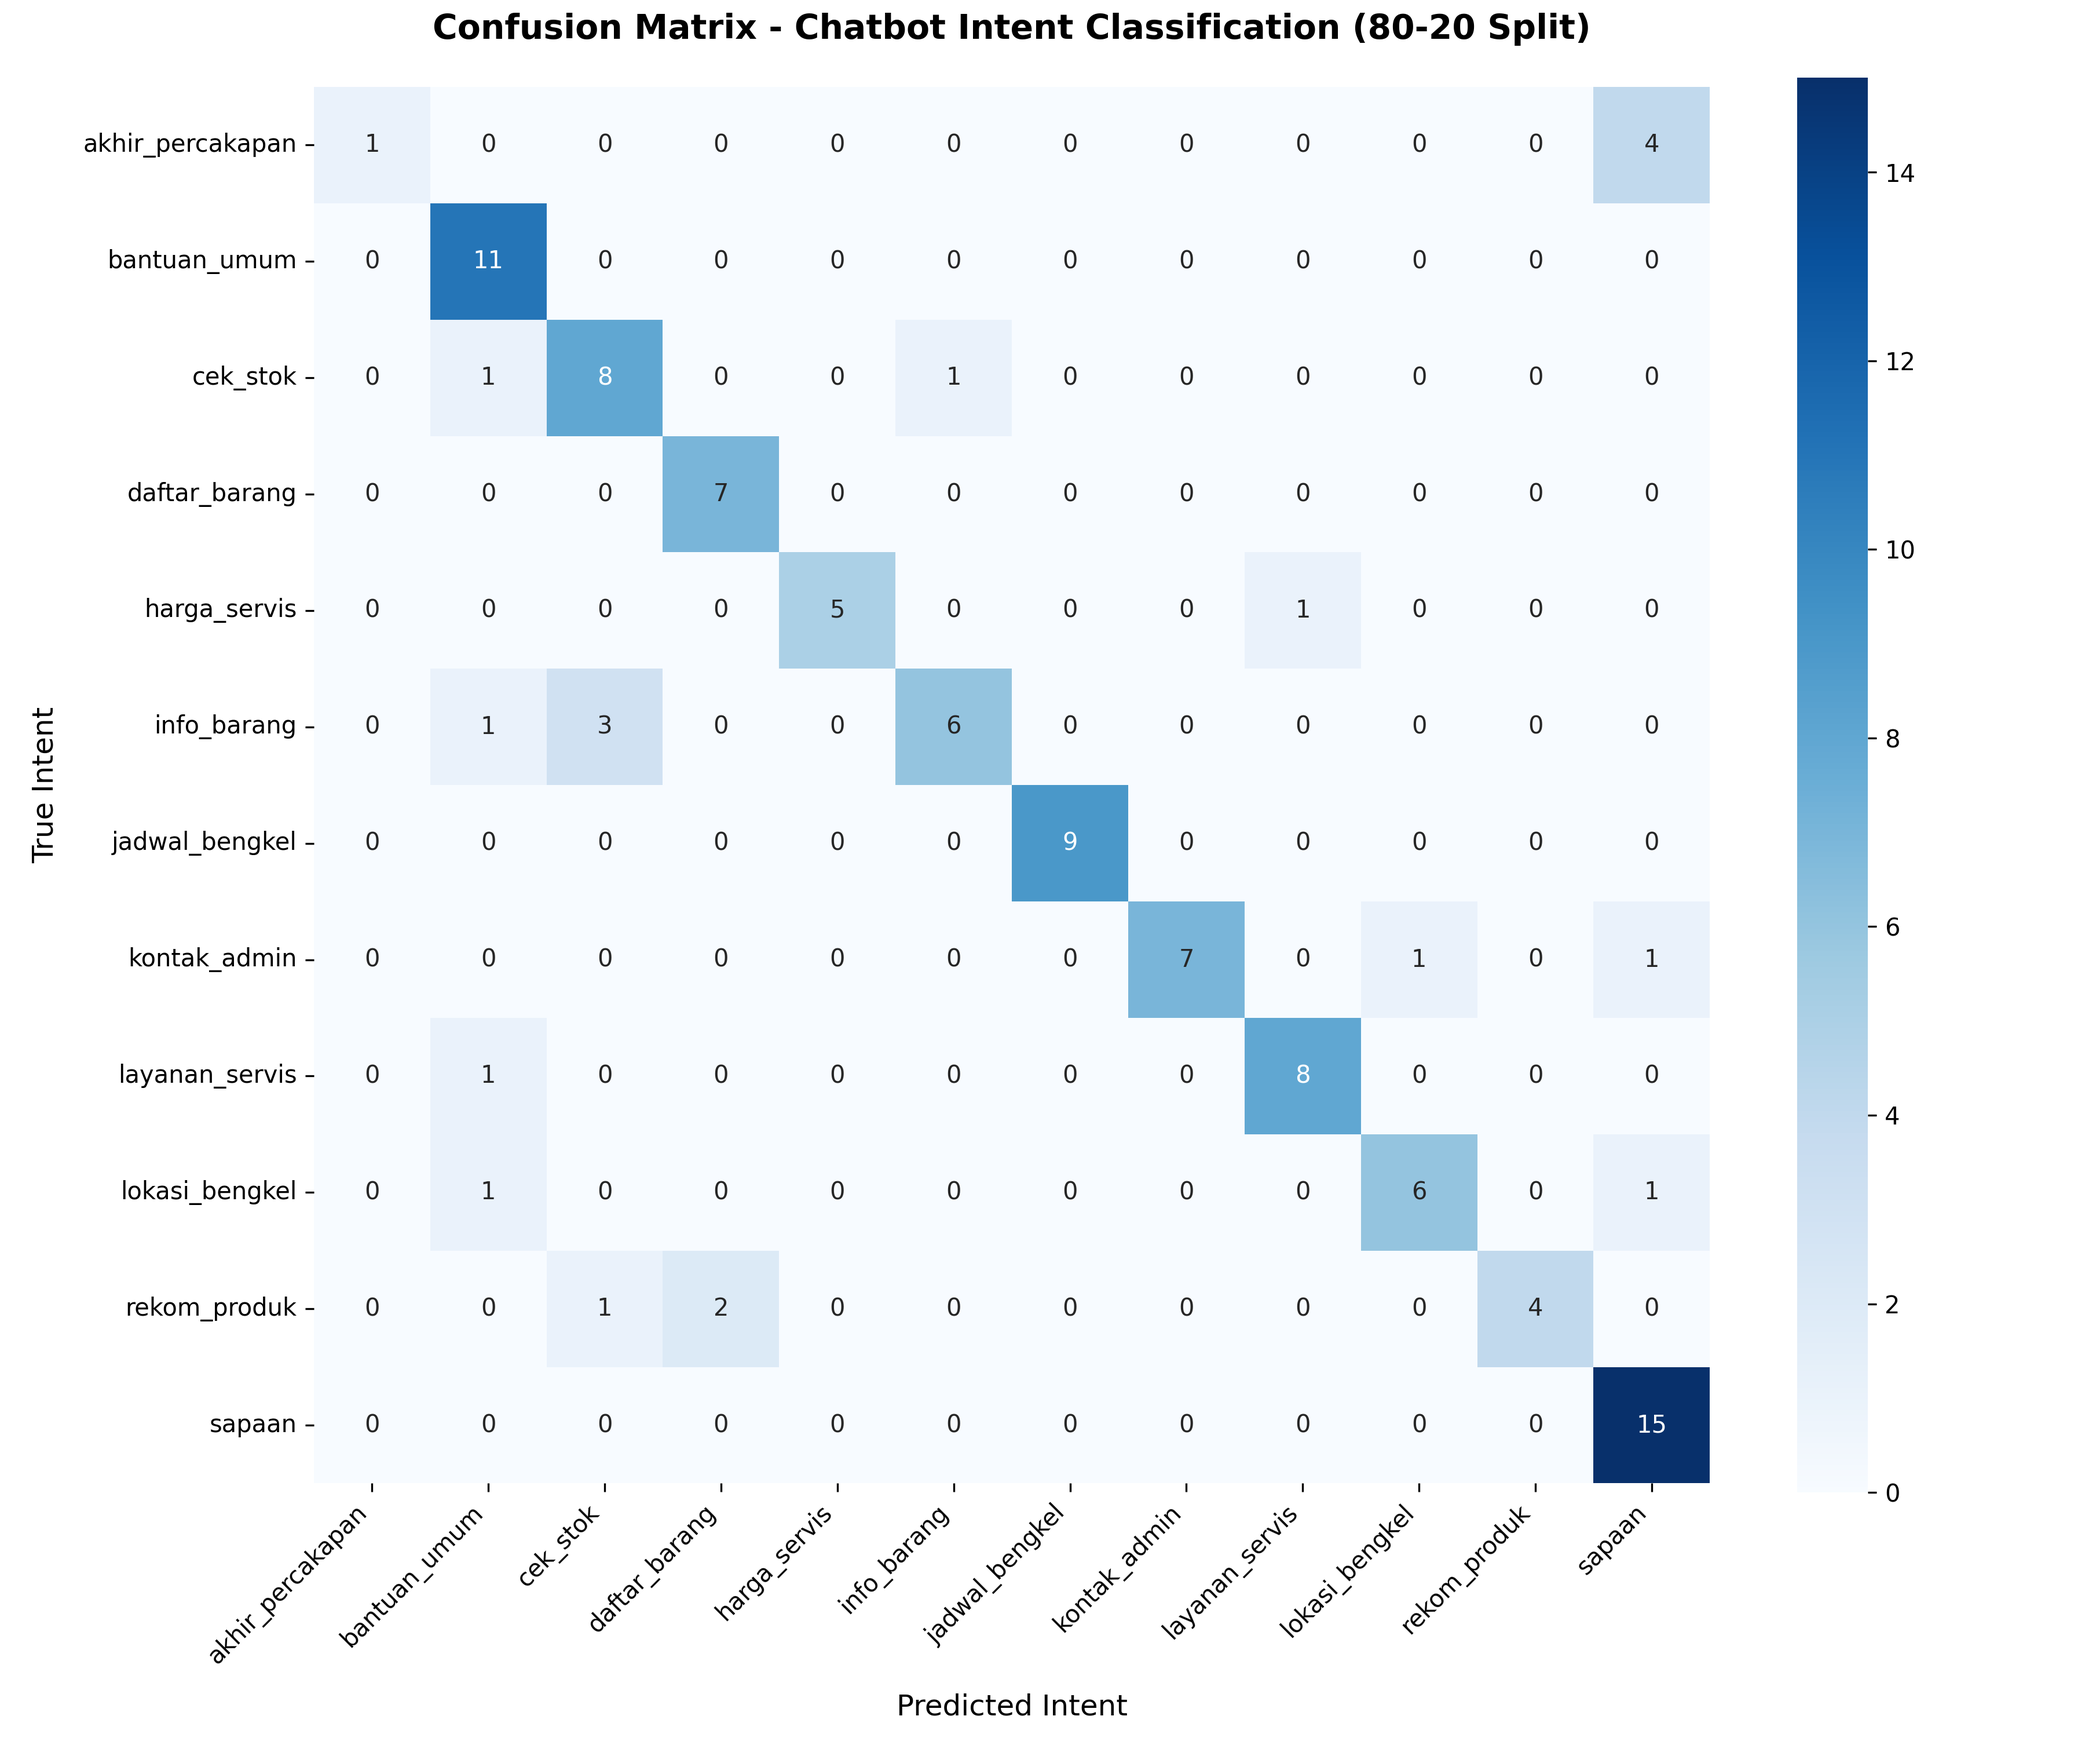
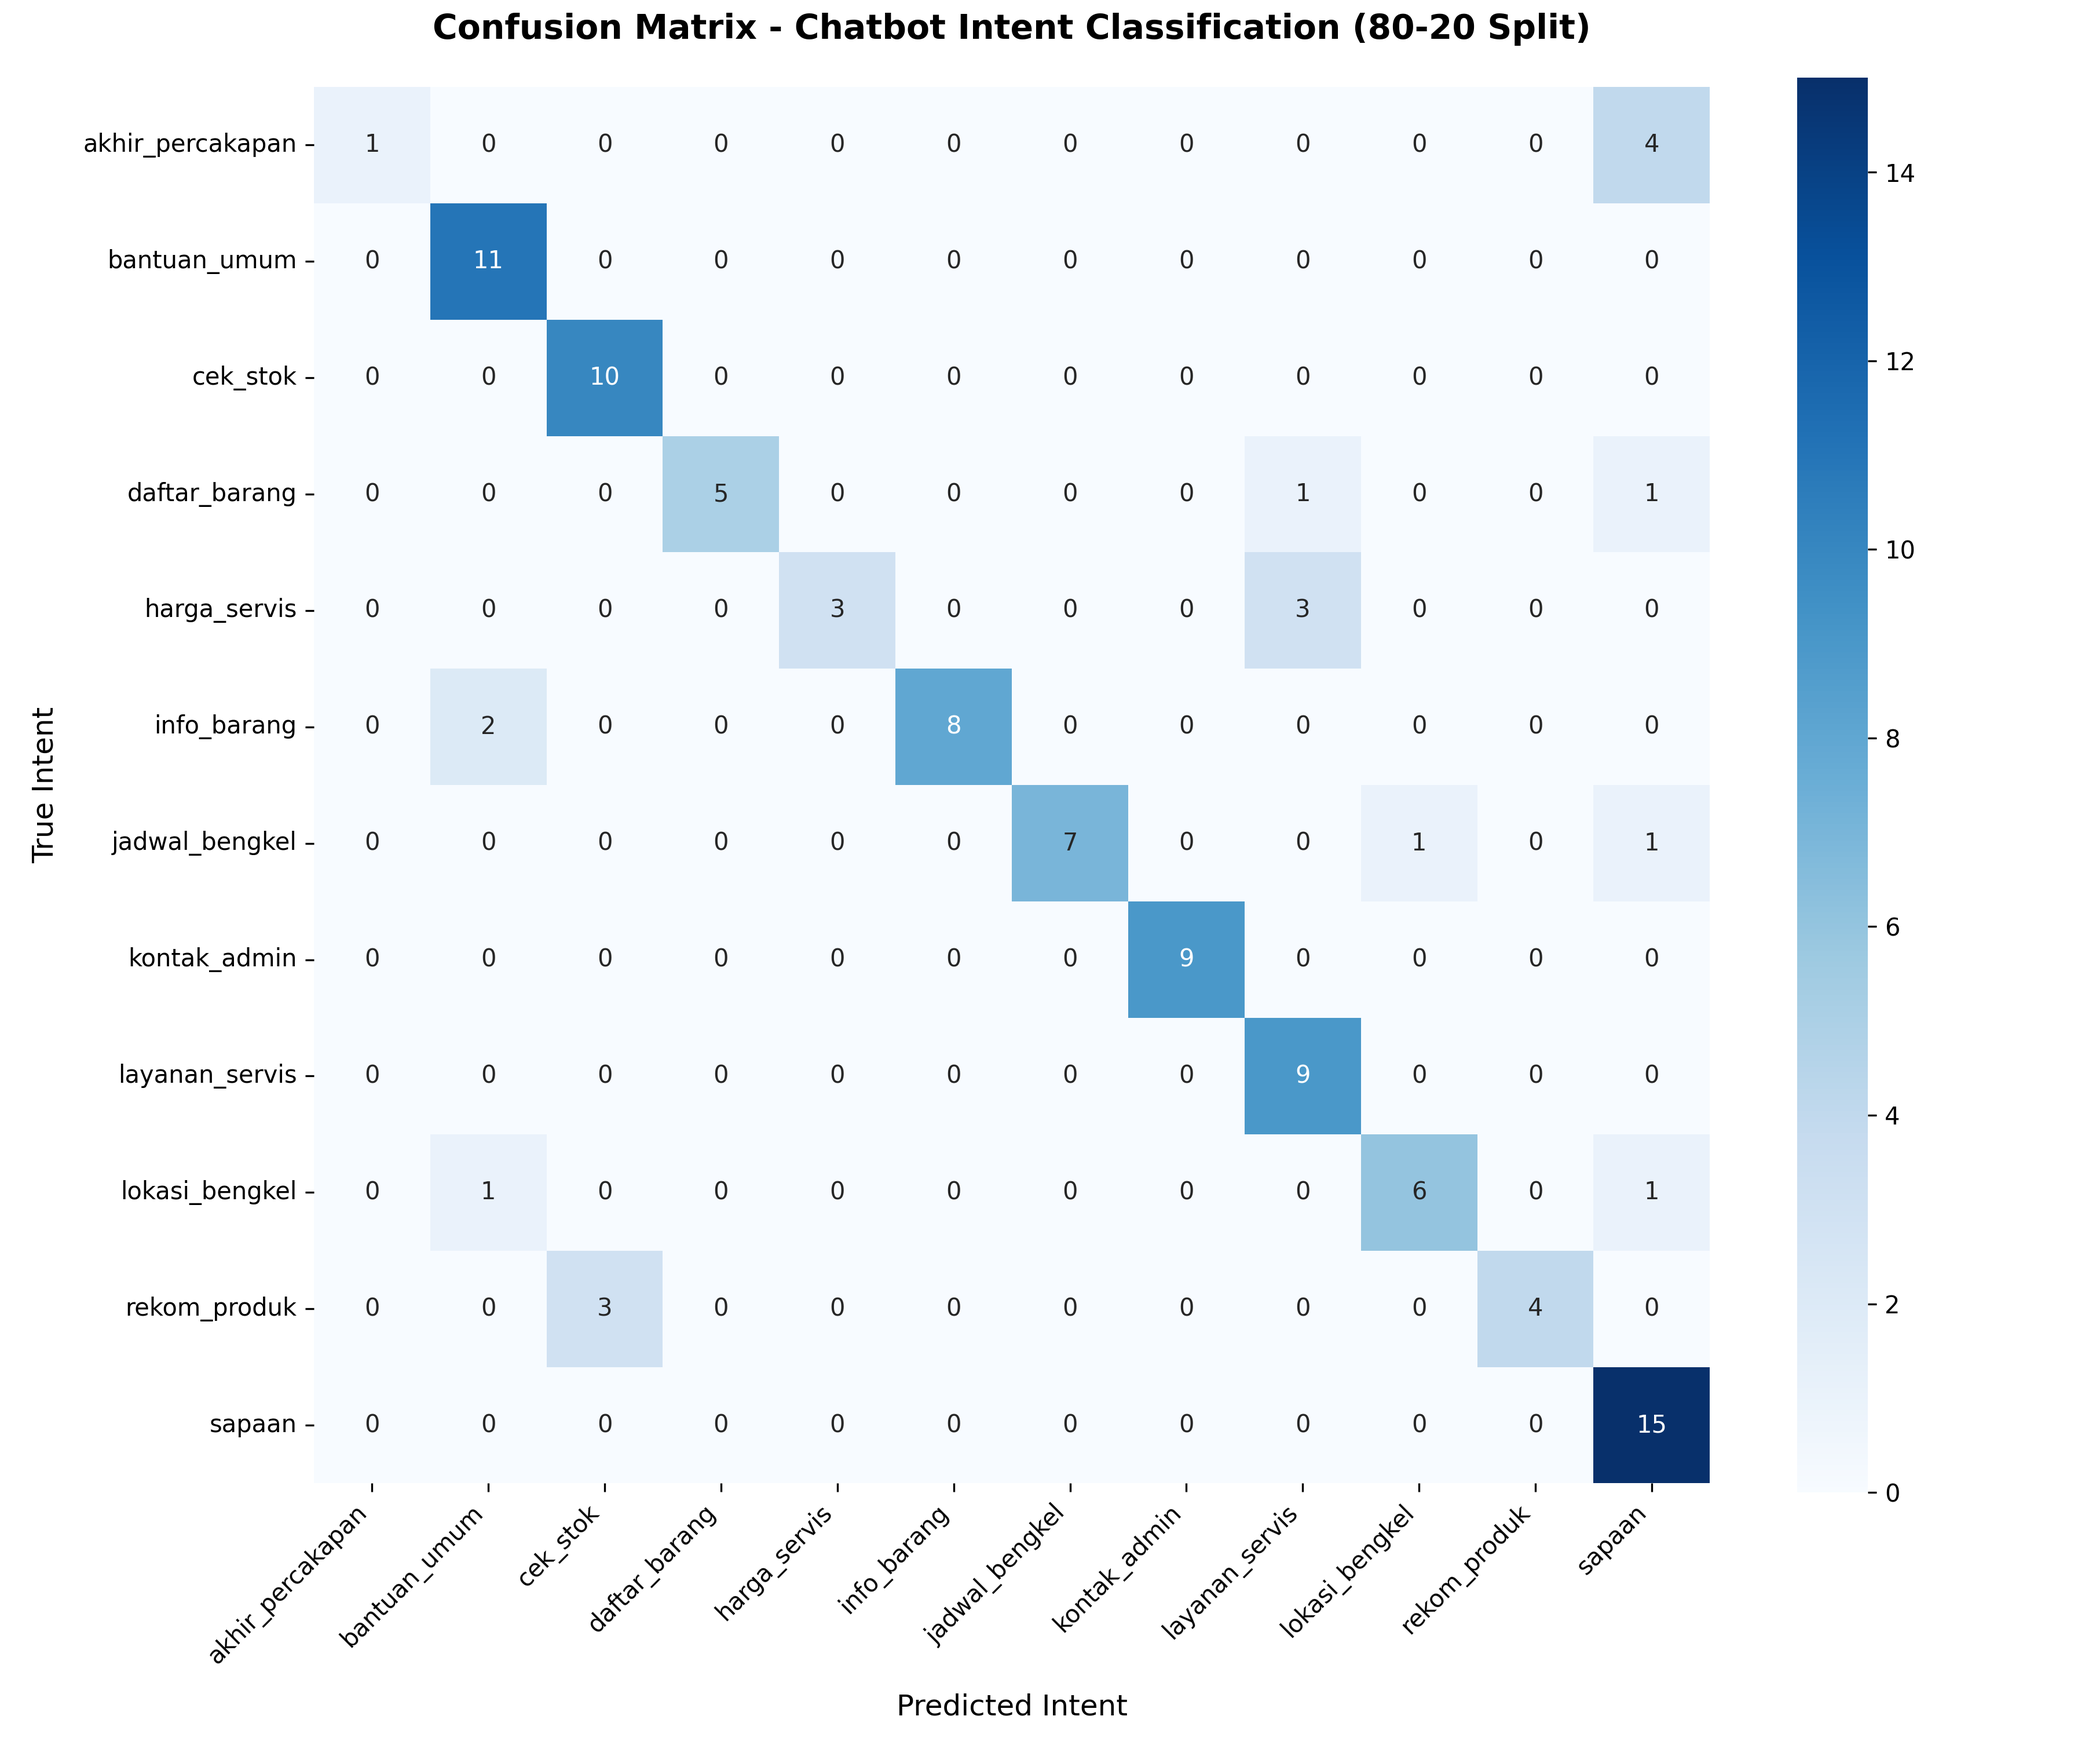
feat: tune train-test split random state to achieve 83.02% accuracy

diff --git a/scripts/augment_and_retrain.py b/scripts/augment_and_retrain.py
@@ -477,7 +477,7 @@ def main():
     train_df, test_df = train_test_split(
         combined,
         test_size=0.2,
-        random_state=42,
+        random_state=3,
         stratify=combined['label']
     )
     
